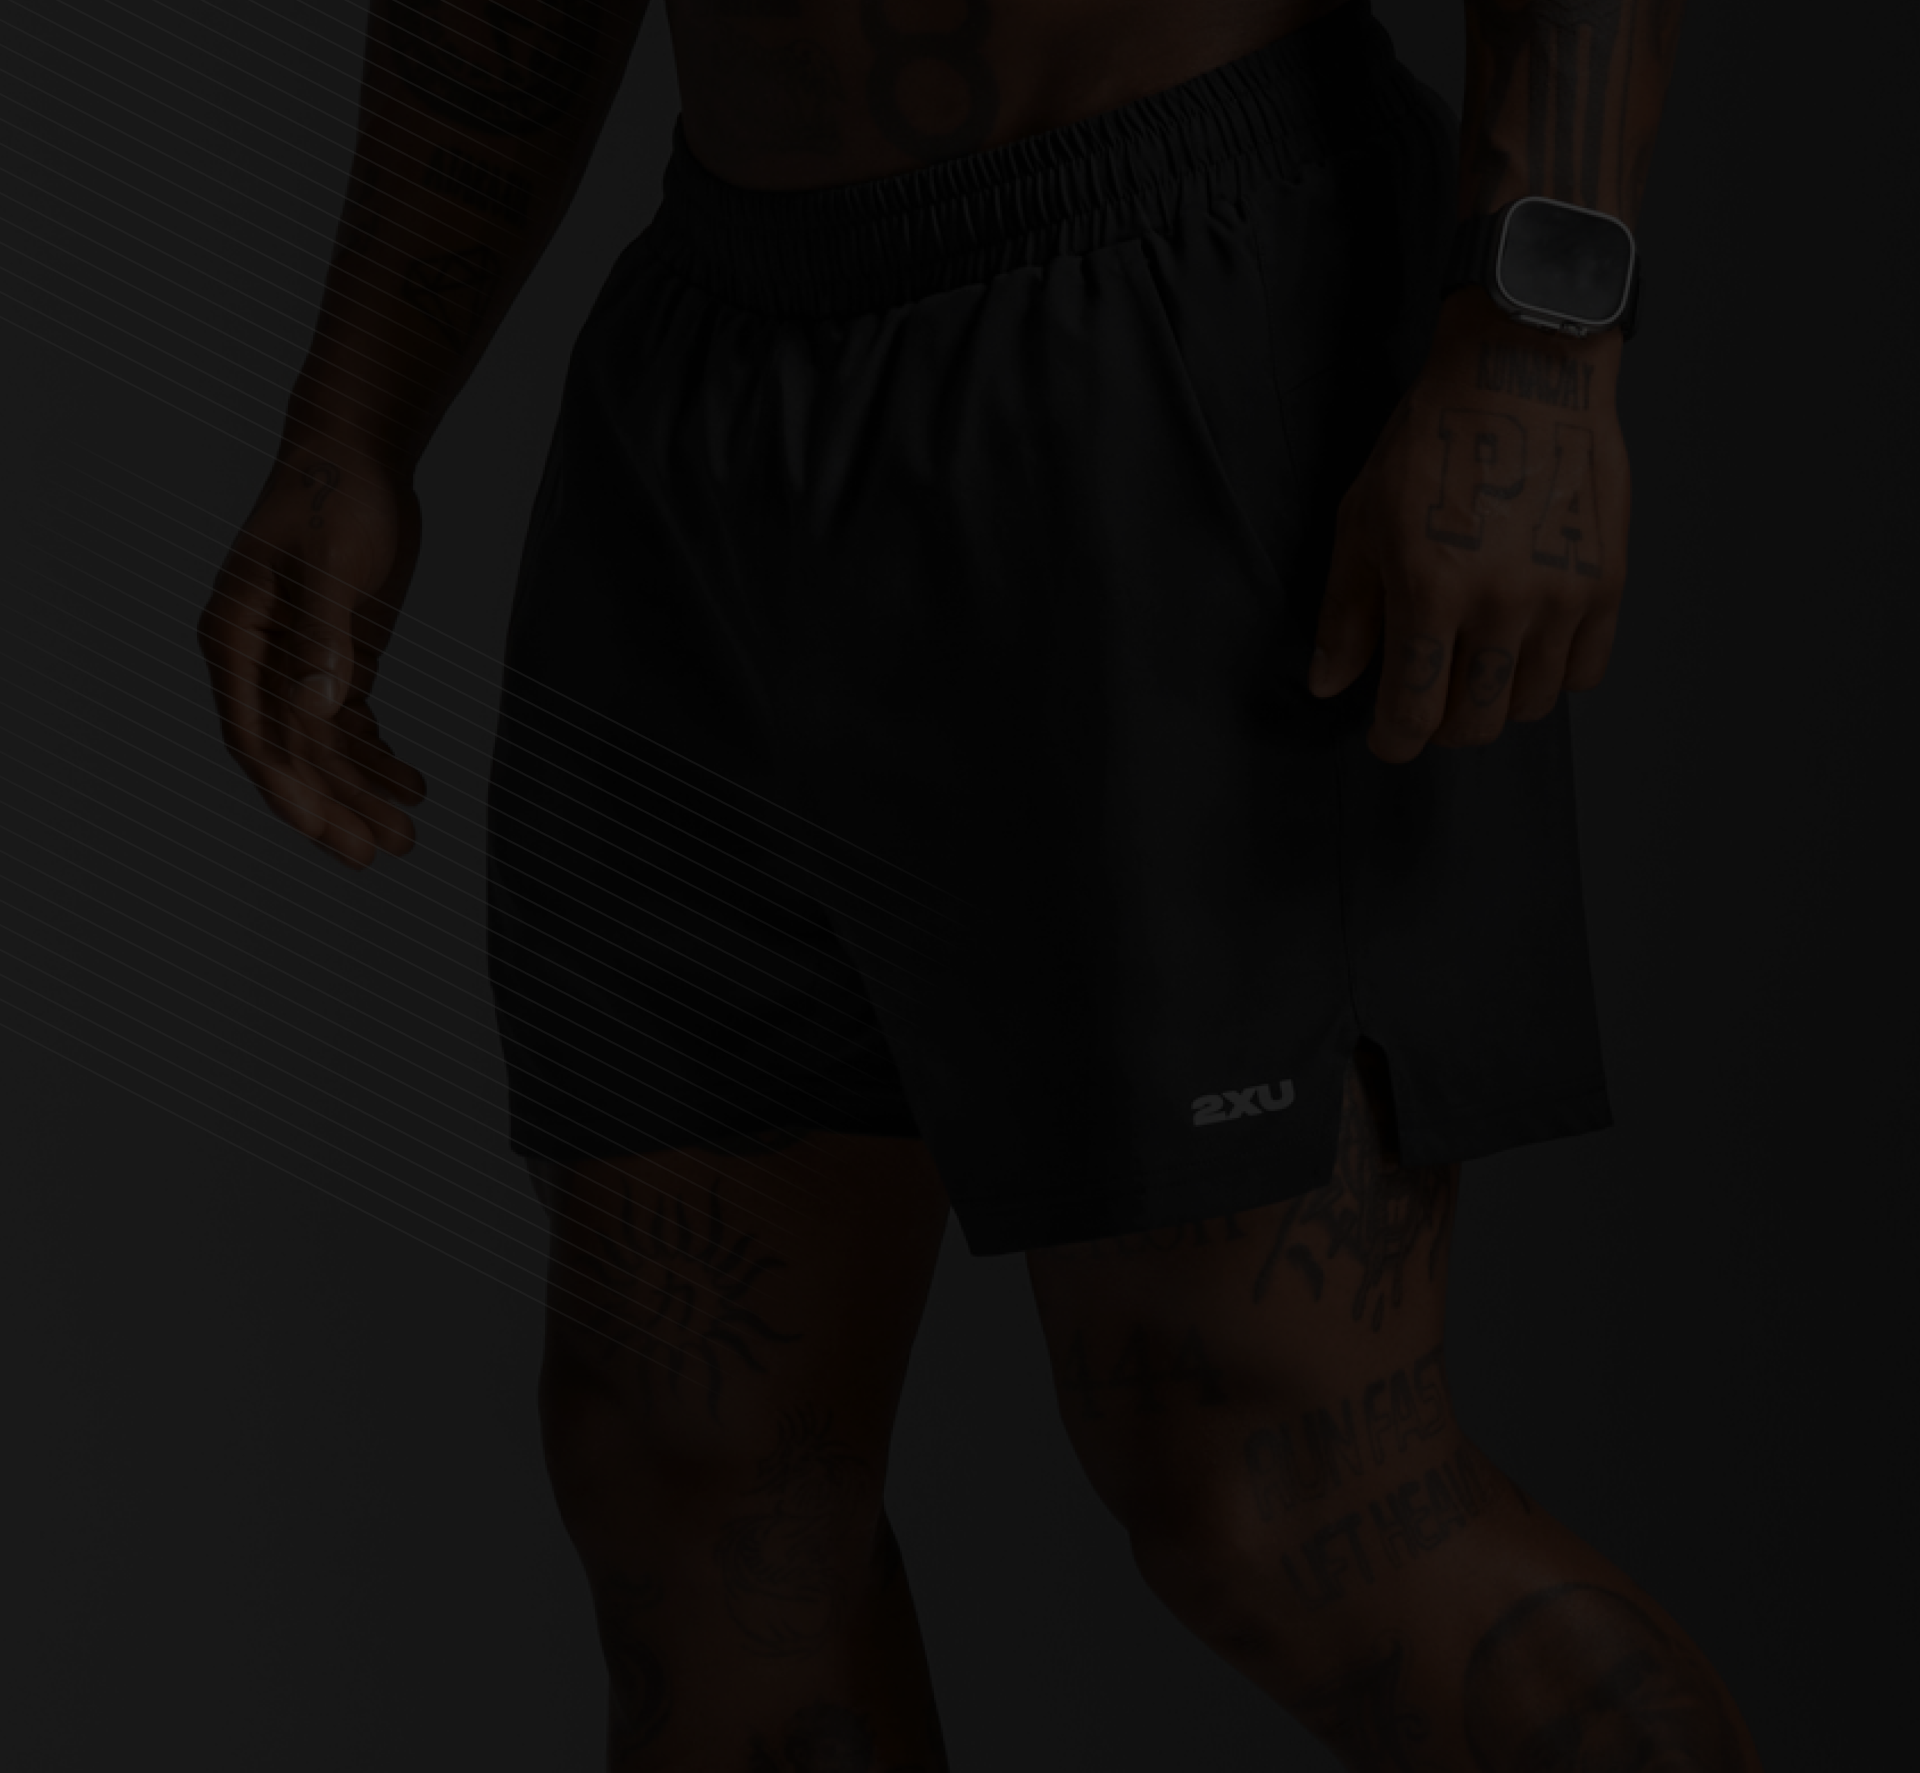
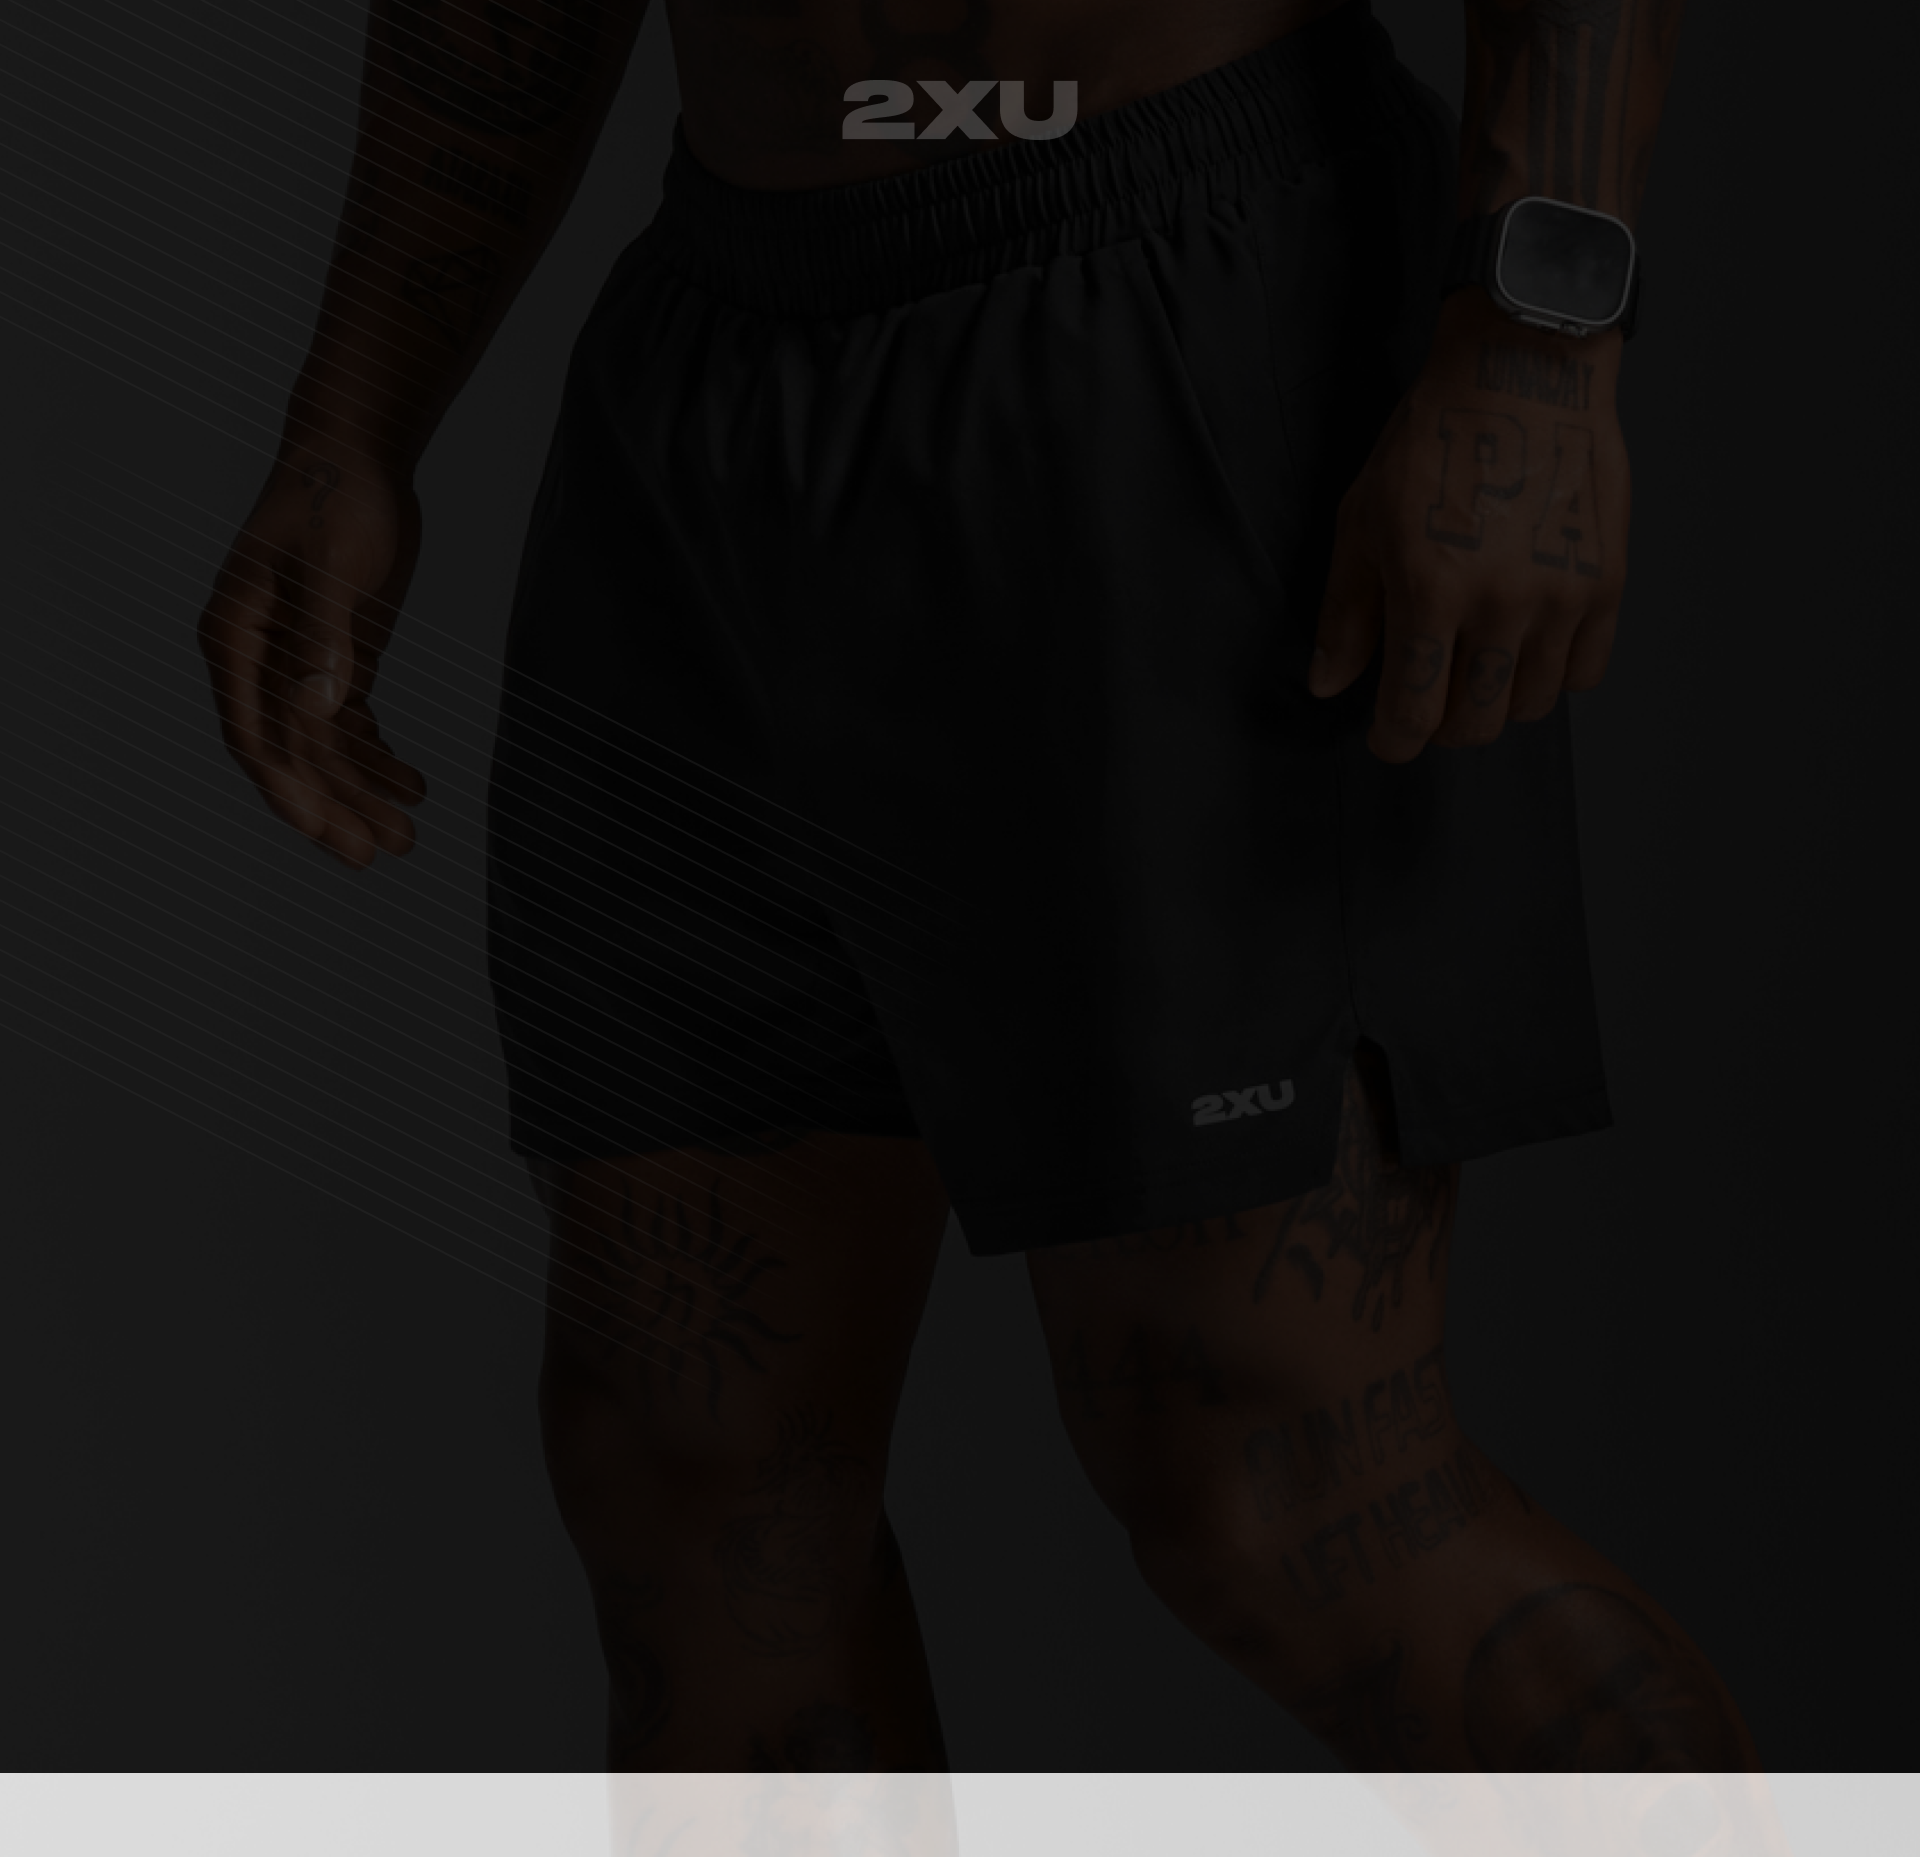
Show a separate mobile hero image on the follower event page.

Changed region(s): [[0.0, 0.9306, 1.0, 1.0], [0.4375, 0.031, 0.5625, 0.0931], [0.7812, 0.0931, 0.8438, 0.1241]]

diff --git a/follow.html b/follow.html
@@ -37,9 +37,10 @@
                 <div class="lp follow-page">
                     <section class="follow-hero">
                         <div class="follow-hero__bg">
-                            <img class="lp-cover" src="images/follow/hero-bg.png" alt="" aria-hidden="true">
+                            <img class="lp-cover lp-hero-pc" src="images/follow/hero-bg.png" alt="" aria-hidden="true">
+                            <img class="lp-cover lp-hero-mo" src="images/follow/hero-bg-mo.png" alt="" aria-hidden="true">
                         </div>
-                        <div class="follow-hero__lines" aria-hidden="true"></div>
+                        <!-- <div class="follow-hero__lines" aria-hidden="true"></div> -->
                         <div class="follow-hero__inner">
                             <img class="follow-hero__logo" src="images/follow/logo-2xu.svg" alt="2XU">
                             <p class="follow-hero__eyebrow">EXCLUSIVE  FOR  FOLLOWERS</p>

diff --git a/style.css b/style.css
@@ -726,6 +726,10 @@ body.theme01 {
   object-position: 70% center;
 }
 
+.follow-hero__bg .lp-hero-mo {
+  object-position: center top;
+}
+
 .follow-hero__lines {
   position: absolute;
   width: 90%;
